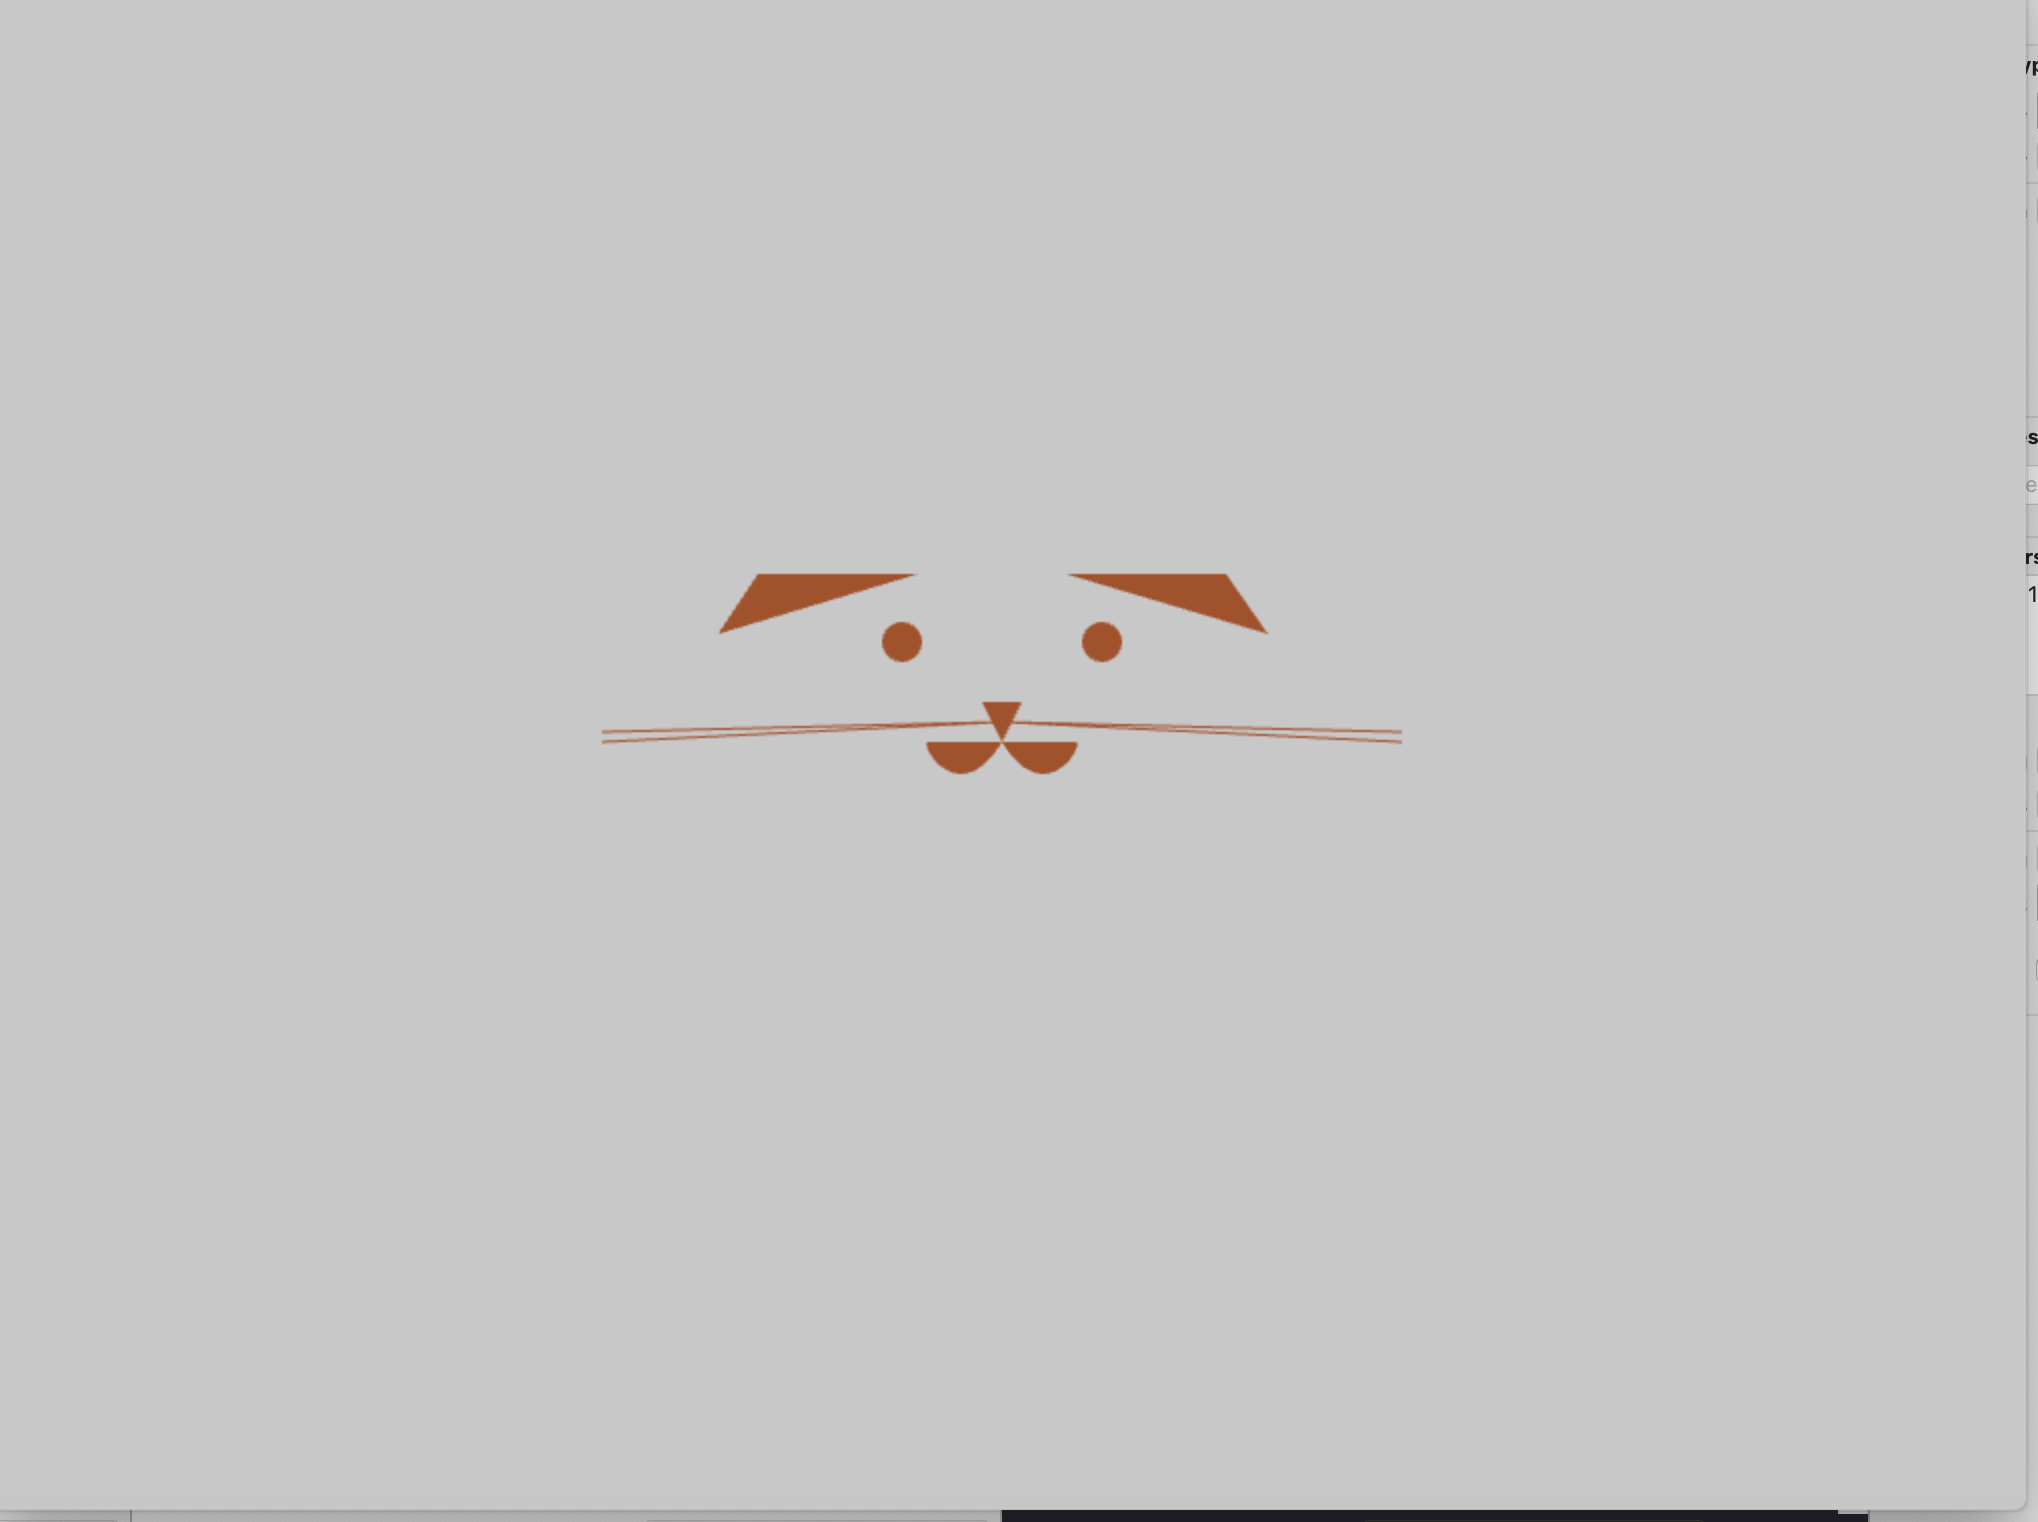
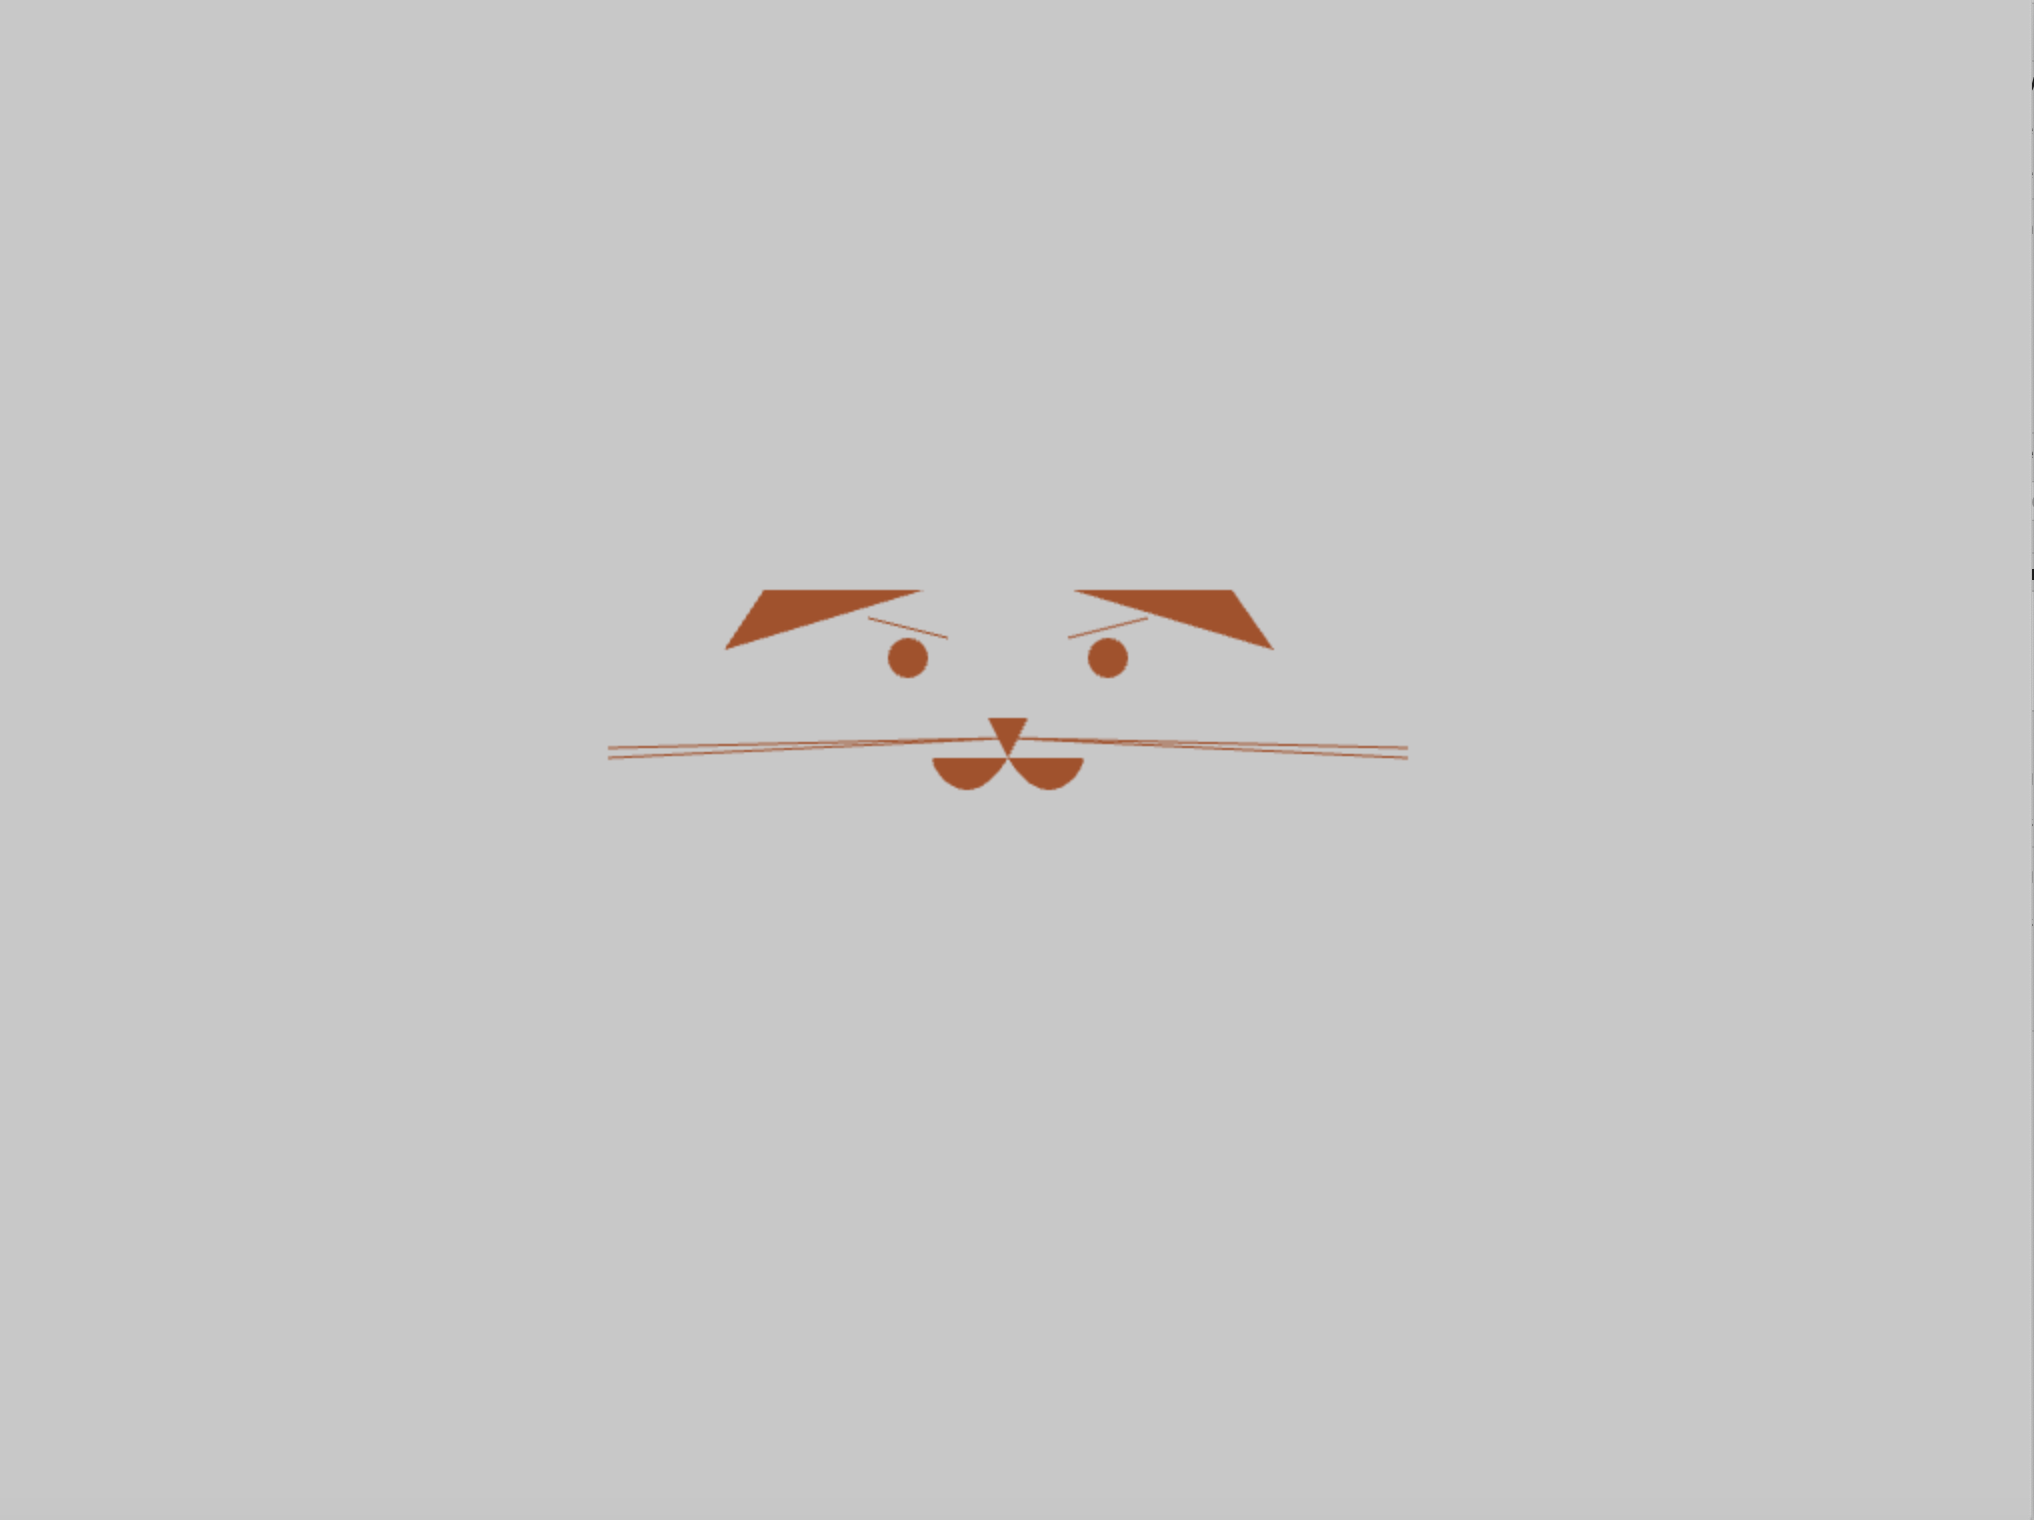
media

diff --git a/Assignment_4/src/ofApp.cpp b/Assignment_4/src/ofApp.cpp
@@ -54,6 +54,9 @@ void ofApp::draw(){
         //wiskers right
         ofDrawLine(midX, midY-10, midX+200, midY-5);
         ofDrawLine(midX, midY-10, midX+200, midY);
+        //eyebrows
+        ofDrawLine(midX+30, midY-60, midX+70, midY-70);
+        ofDrawLine(midX-30, midY-60, midX-70, midY-70);
         
         
     }
@@ -115,3 +118,4 @@ void ofApp::gotMessage(ofMessage msg){
 void ofApp::dragEvent(ofDragInfo dragInfo){
     
 }
+
